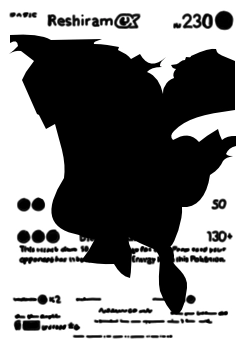
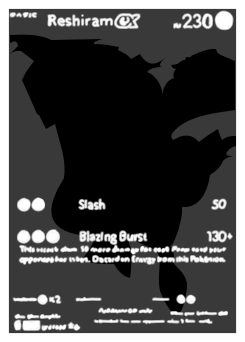
Improve effects

diff --git a/src/components/card.module.css b/src/components/card.module.css
@@ -314,15 +314,6 @@
   opacity: 1;
 }
 
-.black-white-rare .foilOverlay[data-pokemon-name="Reshiram ex"] {
-  mask-image: url(/assets/reshiram-ex-mask.webp);
-}
-
-.black-white-rare .foilOverlay[data-pokemon-name="Zekrom ex"] {
-  mask-image: url(/assets/zekrom-ex-mask.webp);
-  opacity: 0.7;
-}
-
 .black-white-rare .foilOverlay {
   background: linear-gradient(
     230deg,
@@ -337,4 +328,40 @@
   mask-size: 100% 100%;
   mask-position: center;
   mask-mode: luminance;
+}
+
+.black-white-rare .foilOverlay[data-pokemon-name="Reshiram ex"] {
+  mask-image: url(/assets/reshiram-ex-mask.webp);
+  background: conic-gradient(
+    #00ff00 0%,
+    #0000ff 10%,
+    #00ff00 20%,
+    #ff0000 25%,
+    #ff7300 30%,
+    #009900 40%,
+    #0000ff 50%,
+    #ff0000 60%,
+    #ff7300 70%,
+    #009900 80%,
+    #0000ff 90%,
+    #00ff00 95%
+  );
+}
+
+.black-white-rare .foilOverlay[data-pokemon-name="Zekrom ex"] {
+  mask-image: url(/assets/zekrom-ex-mask.webp);
+  background: conic-gradient(
+    #00ff00 0%,
+    #0000ff 10%,
+    #00ff00 20%,
+    #ff0000 25%,
+    #ff7300 30%,
+    #009900 40%,
+    #0000ff 50%,
+    #ff0000 60%,
+    #ff7300 70%,
+    #009900 80%,
+    #0000ff 90%,
+    #00ff00 95%
+  );
 }
